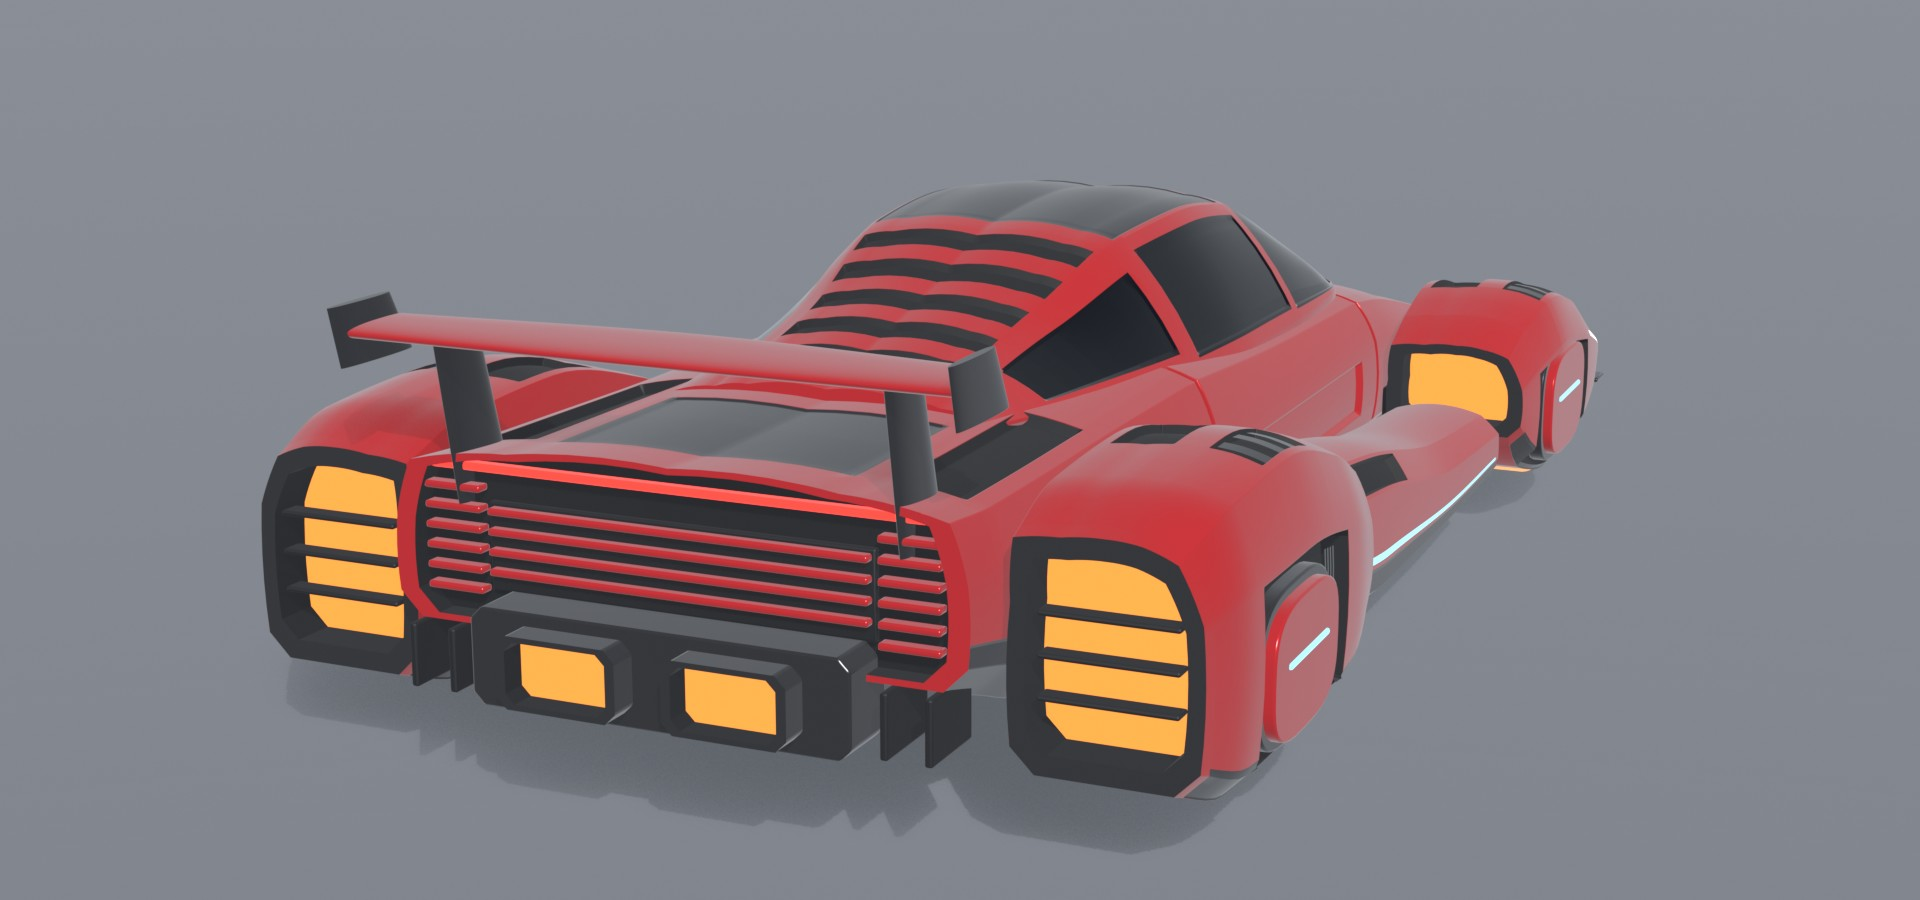
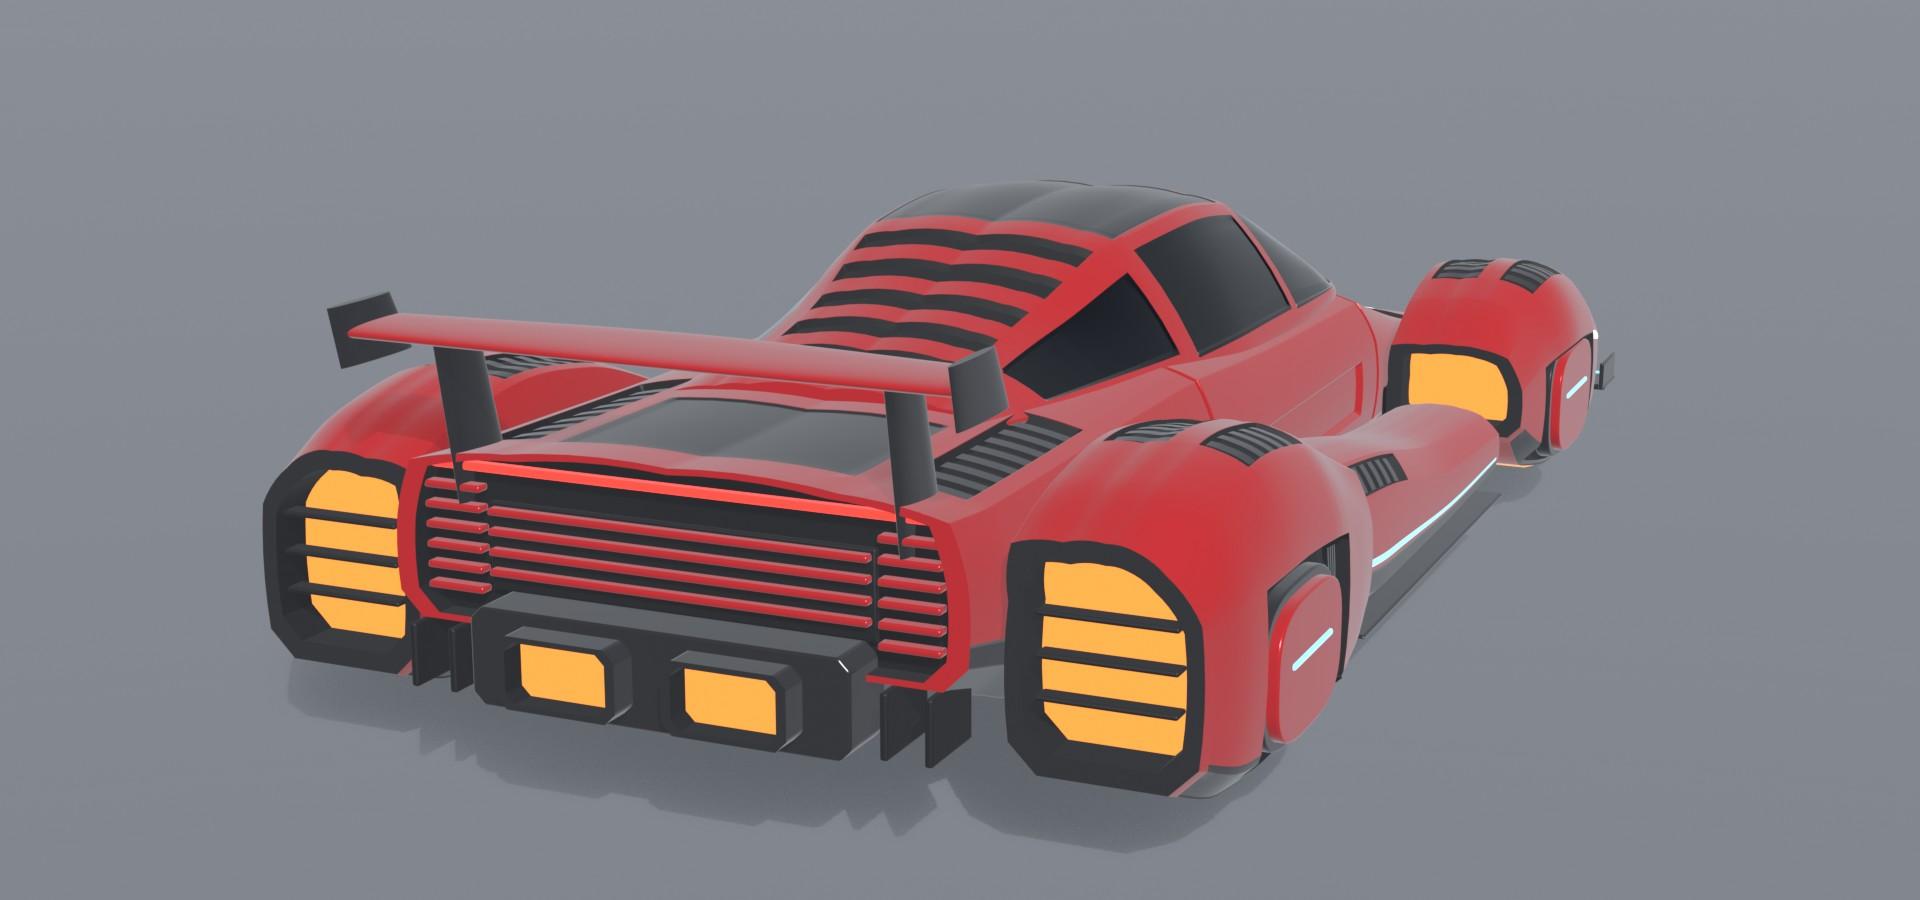
garage: Exotic sharp car - flowing fenders, splitter, louvres, slim headlights
Front fenders now stand above a sunken hood and rise and fall in one curve.
Louvres in the hood vents, fender tops, sill intakes and tail deck. Slim
headlight under a lid with a light blade below, strakes in the lower front
openings, carbon splitter with endplates and side skirts.
Blender only: nothing installed in Studio.

diff --git a/scripts/exotic_category/mesh/cars.py b/scripts/exotic_category/mesh/cars.py
@@ -77,23 +77,28 @@ def shell(pod, peak, half, y0, y1, nt, rim="secondary"):
 
 # ---------------------------------------------------------------- car A: sharp
 
-A_POD = dict(rb=0.3, tum=0.3, drop=0.2, tumi=0.03, dropi=0.1, wcf=0.5, d2=0.04, crown=0.025)
+A_POD = dict(rb=0.35, tum=0.42, drop=0.28, tumi=0.03, dropi=0.12, wcf=0.45, d2=0.04, crown=0.06, cs=0.03)
 
 
-def a_pod(pod, z0, z1, peak, extra=(), louvres=None):
-    """Fender over a dark arch, carbon rocker, louvred vent on top, vented shell in the arch."""
+def louvres(surf, name, t0, t1, u0, u1, n, ch="secondary", off=-0.06, side=1, w=0.5):
+    """n slats across a vent, standing between the vent floor and the skin."""
+    step = (t1 - t0) / n
+    for i in range(n):
+        a = t0 + i * step + step * (1 - w) / 2
+        surf.patch(f"{name}{i}", a, a + step * w, u0, u1, ch, side=side, off=off, mirror=True)
+
+
+def a_pod(pod, z0, z1, peak, extra=(), arch_slats=0):
+    """Flowing fender over a dark arch, carbon rocker, louvred vent on top, vented shell in the arch."""
     pod.build("skin", "primary", mirror=True, caps=(False, False), regions=[
         R(z0 + 0.25, z1 - 0.2, 1.0, 2.05, "secondary", 0.02),
-        R(peak - 1.75, peak + 1.75, 1.25, 2.95, "detail", 0.35, side=1),
-        R(peak - 1.2, peak + 0.6, 4.25, 5.6, "detail", 0.12), *extra])
-    for i in range(3):
-        pod.patch(f"top{i}", peak - 1.0 + i * 0.55, peak - 0.75 + i * 0.55, 4.3, 5.55, "secondary",
-                  off=-0.05, mirror=True)
-    if louvres:
-        for i in range(4):
-            t = peak + louvres * (1.62 - i * 0.13)
-            pod.patch(f"louvre{i}", min(t, t - 0.06), max(t, t - 0.06), 1.4, 2.85, "secondary", off=-0.18,
-                      mirror=True)
+        R(peak - 1.7, peak + 1.7, 1.25, 2.92, "detail", 0.35, side=1),
+        R(peak - 1.3, peak + 0.9, 4.25, 5.6, "detail", 0.12), *extra])
+    for side in (1, -1):
+        louvres(pod, f"top{side}", peak - 1.2, peak + 0.8, 4.3, 5.55, 5, side=side)
+    for i in range(4 if arch_slats else 0):
+        t = peak + arch_slats * (1.58 - i * 0.13)
+        pod.patch(f"arch{i}", t - 0.03, t + 0.03, 1.4, 2.85, "secondary", off=-0.18, mirror=True)
     shell(pod, peak, 1.3, -0.8, 0.95, 3.2)
     lift_glow(pod, [(peak - 1.0, peak + 1.0)])
 
@@ -102,7 +107,8 @@ def car_a():
     c = "A"
     K.begin(c, "COCKPIT")
     tub()
-    can = Hull([(-6.7, dict(w=2.6, yb=1.8, yt=2.1, ys=2.0, tum=0.3, drop=0.02)), (-4.6, dict(w=3.2, yt=3.15, tum=0.85)),
+    can = Hull([(-6.7, dict(w=2.6, yb=1.8, yt=2.1, ys=2.0, tum=0.3, drop=0.02)),
+                (-4.6, dict(w=3.2, yt=3.15, tum=0.85)),
                 (-2.4, dict(yt=4.05)), (-0.4, dict(yt=4.25)), (1.6, dict(w=3.2, yt=4.15)),
                 (4.2, dict(w=2.9, yb=2.2, yt=3.45, ys=2.35)),
                 (7.2, dict(w=2.3, yb=2.35, yt=2.75, ys=2.5, tum=0.7, drop=0.1))],
@@ -112,33 +118,44 @@ def car_a():
         R(-2.35, 1.9, 4.12, 6.0, "secondary", 0.02), R(2.2, 5.8, 3.15, 3.8, "glass", 0.03),
         *[R(2.4 + i * 0.9, 2.9 + i * 0.9, 4.2, 6.0, "detail", 0.1) for i in range(5)]])
 
+    # Nose: the hood sinks between the fenders and climbs to the cowl.
     K.begin(c, "NOSE")
     nose = Hull([(-12.5, dict(w=3.7, yb=-0.3, yt=0.45, rb=0.15, ys=0.18, tum=0.1, drop=0.08)),
-                 (-11.0, dict(w=3.75, yt=0.95, ys=0.5, tum=0.2, drop=0.2)),
-                 (-8.5, dict(w=3.8, yt=1.65, ys=0.95, tum=0.3, drop=0.28)),
-                 (-6.4, dict(w=3.8, yt=2.1, ys=1.25, tum=0.35, drop=0.28, crown=0.04)), (-5.2, SEAM_F)],
-                yb=-0.4, rb=0.45, wcf=0.62, d2=0.06, crown=0.015)
+                 (-11.0, dict(w=3.75, yt=0.8, ys=0.45, tum=0.2, drop=0.2)),
+                 (-8.5, dict(w=3.8, yt=1.35, ys=0.8, tum=0.3, drop=0.3)),
+                 (-6.6, dict(w=3.8, yt=1.85, ys=1.1, tum=0.35, drop=0.3, crown=0.05)), (-5.2, SEAM_F)],
+                yb=-0.4, rb=0.45, wcf=0.62, d2=0.06, crown=0.03)
     nose.build("skin", "primary", t1=-5.2 - GAP, caps=(False, True), regions=[
-        R(-12.5, -10.4, 0.0, 2.2, "secondary", 0.02), R(-12.42, -12.28, 2.9, 6.0, "lights", -0.01),
-        R(-11.2, -7.0, 5.0, 6.0, "secondary", 0.03), R(-9.9, -7.0, 4.15, 4.85, "detail", 0.18)])
+        R(-12.5, -10.4, 0.0, 2.2, "secondary", 0.02), R(-12.42, -12.3, 2.9, 6.0, "lights", -0.01),
+        R(-11.2, -7.0, 5.0, 6.0, "secondary", 0.03), R(-9.9, -7.4, 4.15, 4.85, "detail", 0.18)])
+    louvres(nose, "hood", -9.8, -7.5, 4.2, 4.8, 6, off=-0.1)
     nose.throat("mouth", "min", lip="primary", scale=0.86, depth=0.7)
     for i, y in enumerate((-0.1, 0.1)):
         box(f"slat{i}", (0, y, -12.3), (6.1, 0.05, 0.3), "secondary")
-    box("lip", (0, -0.38, -12.42), (7.3, 0.08, 0.36), "secondary")
+    box("splitter", (0, -0.42, -12.25), (7.5, 0.1, 0.9), "secondary")
+    box("keel", (1.6, -0.6, -12.0), (0.08, 0.3, 1.2), "detail", mirror=True)
 
+    # Front engines: tall flowing fenders that stand above the hood. Slim headlight under a lid, light
+    # blade below it, strakes in the lower opening, splitter corner with endplate.
     K.begin(c, "FPOD")
-    pod = Hull([(-12.1, dict(cx=5.05, w=1.1, wi=1.1, yb=-0.3, yt=0.58, ys=0.2, drop=0.1)),
-                (-11.0, dict(cx=5.1, w=1.2, wi=1.15, yb=-0.7, yt=1.1, ys=0.5)),
-                (-9.4, dict(cx=5.15, w=1.25, wi=1.2, yb=-1.0, yt=1.7, ys=0.9)),
-                (-7.8, dict(cx=5.17, w=1.25, wi=1.22, yb=-1.1, yt=2.0, ys=1.1)),
-                (-6.3, dict(cx=5.12, w=1.18, wi=1.16, yb=-0.8, yt=1.7, ys=0.9)),
+    pod = Hull([(-12.1, dict(cx=5.0, w=1.05, wi=1.05, yb=-0.35, yt=0.95, ys=0.35, drop=0.15)),
+                (-11.2, dict(cx=5.08, w=1.2, wi=1.12, yb=-0.75, yt=1.5, ys=0.65)),
+                (-9.8, dict(cx=5.15, w=1.28, wi=1.2, yb=-1.0, yt=2.05, ys=1.0)),
+                (-8.3, dict(cx=5.18, w=1.3, wi=1.22, yb=-1.1, yt=2.25, ys=1.15)),
+                (-6.8, dict(cx=5.12, w=1.2, wi=1.18, yb=-0.9, yt=1.95, ys=1.0)),
                 (-5.4, dict(SIDE_F, yb=-0.1, yt=1.35, ys=0.7, rb=0.2))], **A_POD)
-    a_pod(pod, -12.1, -5.4, -8.0, extra=[R(-12.04, -11.9, 3.0, 6.0, "lights", -0.01),
-                                         R(-11.9, -10.2, 3.02, 3.2, "lights", -0.01, side=1)])
-    pod.throat("lamp", "min", lip="primary", scale=0.8, depth=0.4, mirror=True)
-    box("led", (5.05, 0.14, -11.8), (1.5, 0.08, 0.08), "lights", mirror=True)
+    a_pod(pod, -12.1, -5.4, -8.3, extra=[R(-11.85, -10.45, 3.2, 3.9, "glass", 0.1, side=1),
+                                         R(-12.0, -10.1, 2.84, 2.94, "lights", -0.01, side=1)])
+    pod.patch("lampbar", -11.75, -10.55, 3.28, 3.4, "lights", off=-0.06, mirror=True)
+    for i, t in enumerate((-11.65, -11.2, -10.85)):
+        pod.patch(f"lamp{i}", t, t + 0.22, 3.52, 3.78, "lights", off=-0.06, mirror=True)
+    pod.throat("duct", "min", lip="primary", scale=0.8, depth=0.45, mirror=True)
+    for i, y in enumerate((0.02, 0.3, 0.58)):
+        box(f"strake{i}", (5.0, y, -11.95), (1.62, 0.08, 0.3), "primary", mirror=True)
     pod.throat("noz", "max", lip="secondary", back="thrust", scale=0.78, depth=0.5, mirror=True)
-    box("chin", (5.1, -0.4, -12.0), (2.3, 0.08, 0.6), "secondary", mirror=True)
+    box("splitter", (5.15, -0.45, -11.85), (2.6, 0.1, 1.0), "secondary", mirror=True)
+    box("endplate", (6.4, -0.22, -11.75), (0.08, 0.5, 1.1), "secondary", mirror=True)
+    box("edge", (5.15, -0.38, -12.33), (2.5, 0.05, 0.05), "neon", mirror=True)
     flange(-11.8, -5.6, 0.5)
 
     K.begin(c, "TAIL")
@@ -149,6 +166,7 @@ def car_a():
     tail.build("skin", "primary", t0=2.8 + GAP, caps=(True, False), regions=[
         R(8.6, 11.2, 0.0, 2.3, "secondary", 0.02), R(7.7, 10.4, 5.1, 6.0, "secondary", 0.03),
         R(6.4, 10.2, 4.2, 4.85, "detail", 0.15)])
+    louvres(tail, "deck", 6.5, 10.1, 4.25, 4.8, 8, off=-0.08)
     tail.throat("fascia", "max", lip="primary", scale=0.93, depth=0.3)
     box("blade", (0, 2.36, 11.02), (6.6, 0.1, 0.16), "lights_red")
     for i, y in enumerate((2.1, 1.85, 1.6, 1.35, 1.1, 0.85)):
@@ -158,24 +176,27 @@ def car_a():
 
     K.begin(c, "RPOD")
     pod = Hull([(3.6, dict(SIDE_R, yb=-0.5, yt=1.6)),
-                (5.0, dict(cx=5.14, w=1.25, wi=1.2, yb=-1.0, yt=2.2, ys=1.2)),
-                (7.3, dict(cx=5.17, w=1.27, wi=1.22, yb=-1.1, yt=2.7, ys=1.55)),
-                (9.4, dict(cx=5.17, w=1.25, wi=1.22, yb=-1.0, yt=2.6, ys=1.55)),
-                (10.6, dict(cx=5.14, w=1.12, wi=1.15, yb=-0.6, yt=2.25, ys=1.4))], **A_POD)
-    a_pod(pod, 3.6, 10.6, 7.3, louvres=-1)
+                (4.8, dict(cx=5.12, w=1.22, wi=1.18, yb=-1.0, yt=2.15, ys=1.15)),
+                (6.4, dict(cx=5.18, w=1.3, wi=1.22, yb=-1.1, yt=2.65, ys=1.5)),
+                (7.8, dict(cx=5.18, w=1.3, wi=1.22, yb=-1.1, yt=2.8, ys=1.6)),
+                (9.4, dict(cx=5.16, w=1.25, wi=1.2, yb=-1.0, yt=2.6, ys=1.55)),
+                (10.6, dict(cx=5.12, w=1.12, wi=1.15, yb=-0.6, yt=2.2, ys=1.4))], **A_POD)
+    a_pod(pod, 3.6, 10.6, 7.3, arch_slats=-1)
     pod.throat("intake", "min", lip="primary", scale=0.8, depth=0.5, mirror=True)
     pod.throat("noz", "max", lip="secondary", back="thrust", scale=0.82, depth=0.6, mirror=True)
     for i, y in enumerate((0.3, 0.8, 1.3)):
-        box(f"slat{i}", (5.14, y, 10.42), (1.7, 0.07, 0.3), "detail", mirror=True)
+        box(f"slat{i}", (5.12, y, 10.42), (1.7, 0.07, 0.3), "detail", mirror=True)
     flange(3.8, 10.3, 1.0)
 
     K.begin(c, "STAB")
     sill = Hull([(-5.2, dict(yb=-0.8, yt=0.4, ys=0.0)), (-2.0, dict(yt=0.65, ys=0.15)),
                  (1.5, dict(yt=1.3, ys=0.7)), (3.4, dict(yb=-0.7, yt=1.55, ys=0.9))],
-                cx=4.9, w=1.0, yb=-0.9, rb=0.25, tum=0.3, drop=0.12, wcf=0.5, d2=0.03, crown=0.02)
+                cx=4.9, w=1.0, yb=-0.9, rb=0.25, tum=0.3, drop=0.12, wcf=0.5, d2=0.03, crown=0.04)
     sill.build("skin", "primary", mirror=True, regions=[
         R(-5.2, 3.4, 1.0, 2.25, "secondary", 0.02), R(-5.0, 3.2, 2.3, 2.38, "neon", -0.01, side=1),
         R(0.5, 3.15, 3.1, 3.9, "detail", 0.15, side=1)])
+    louvres(sill, "intake", 0.6, 3.05, 3.15, 3.85, 6, off=-0.08)
+    box("skirt", (5.8, -0.95, -0.9), (0.5, 0.06, 8.2), "secondary", mirror=True)
     lift_glow(sill, [(-4.2, -2.4), (-0.6, 1.4)])
 
     # Boost: centre insert of the tail fascia. Strake panel above, burners low in the diffuser.
